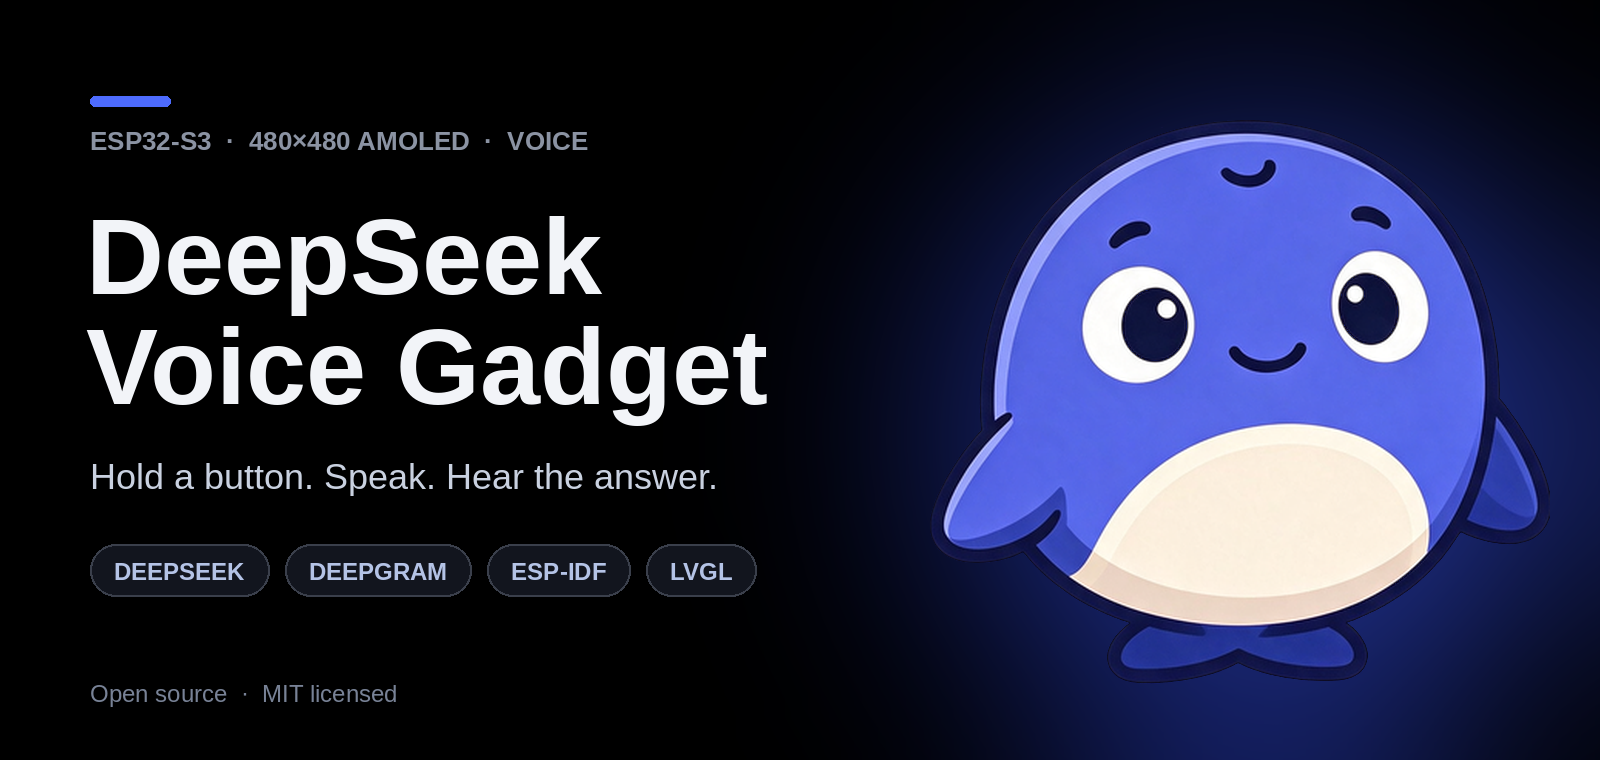
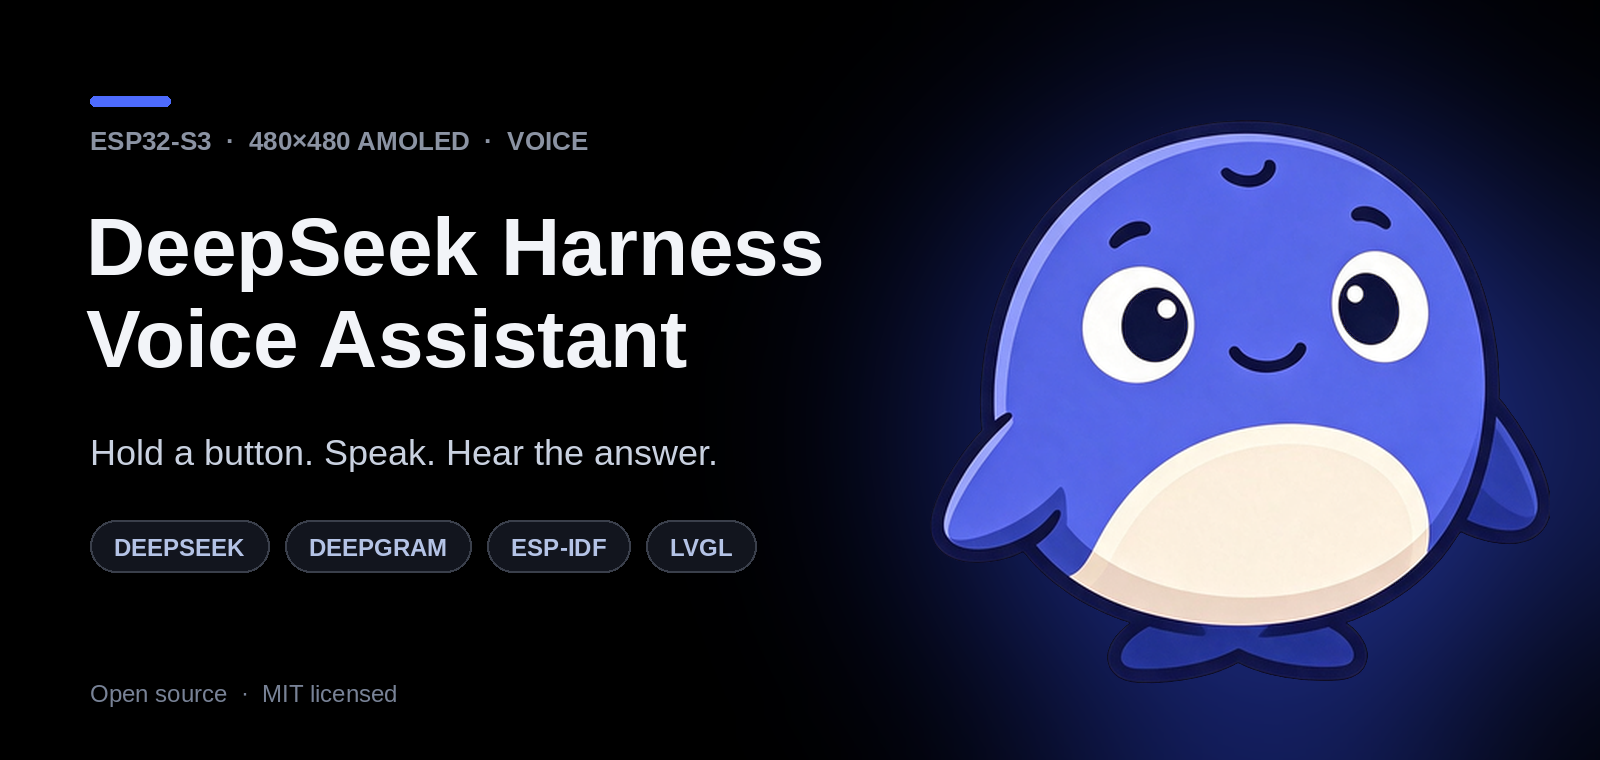
Rename to DeepSeek Harness Voice Assistant
Update the README title, hero banner, clone URL, and file header
comments. Remove em dashes from the description.

Changed region(s): [[0.0312, 0.2724, 0.5312, 0.7868]]

diff --git a/firmware/voice/main/main.c b/firmware/voice/main/main.c
@@ -1,4 +1,4 @@
-/* Voice Gadget — a purpose-built DeepSeek voice assistant for the
+/* DeepSeek Harness Voice Assistant: a purpose-built voice assistant for the
  * Waveshare ESP32-S3-Touch-AMOLED-2.16.
  *
  * One loop, no agent framework:

diff --git a/README.md b/README.md
@@ -1,12 +1,12 @@
-# DeepSeek Voice Gadget
+# DeepSeek Harness Voice Assistant
 
-![DeepSeek Voice Gadget](assets/hero.png)
+![DeepSeek Harness Voice Assistant](assets/hero.png)
 
 A small, purpose-built voice assistant for the **Waveshare ESP32-S3-Touch-AMOLED-2.16**
 (ESP32-S3R8, 16 MB flash, 8 MB PSRAM).
 
 Hold the left button, speak, release. The gadget records, transcribes, asks
-DeepSeek (or your own local harness), and speaks the answer out loud — with an
+DeepSeek (or your own local harness), and speaks the answer out loud, with an
 animated mascot that reacts to each state.
 
 No agent framework on the MCU, no Lua runtime, no skill system. One firmware
@@ -16,7 +16,7 @@ loop and one small host relay.
 
 ## Features
 
-- **Push-to-talk** — recording starts on press, stops 0.4 s after release.
+- **Push-to-talk**: recording starts on press, stops 0.4 s after release.
 - **Deepgram** speech-to-text and text-to-speech, with mic gain handled host-side.
 - **DeepSeek** answers, directly or through a local `dsh` harness.
 - **Animated mascot** with four poses (idle, listening, thinking, speaking).
@@ -92,15 +92,15 @@ endpoint for speech and chat.
 ### 2. Clone and configure
 
 ```sh
-git clone https://github.com/HMBS/deepseek-voice-gadget.git
-cd deepseek-voice-gadget
+git clone https://github.com/HMBS/deepseek-harness-voice-assistant.git
+cd deepseek-harness-voice-assistant
 
 cp firmware/voice/main/secrets.example.h firmware/voice/main/secrets.h
 $EDITOR firmware/voice/main/secrets.h
 ```
 
 Fill in Wi-Fi (2.4 GHz), the relay URL (your computer's LAN IP), and keys.
-`secrets.h` is gitignored — never commit it.
+`secrets.h` is gitignored, so never commit it.
 
 ### 3. Run the relay
 
@@ -217,7 +217,7 @@ These cost real debugging time; they are worth knowing if you fork this:
   `read` manually.
 - **TLS needs PSRAM.** Internal RAM is too tight for mbedTLS working buffers, so
   `CONFIG_MBEDTLS_EXTERNAL_MEM_ALLOC=y`; the DeepSeek call runs on a 16 KB stack.
-- **Never apply gain to a WAV file as a whole** — it corrupts the RIFF header and
+- **Never apply gain to a WAV file as a whole**: it corrupts the RIFF header and
   Deepgram rejects it as "corrupt or unsupported data". Gain the PCM, rebuild the
   header.
 - **Watch the I2S DMA.** Streaming TTS from Deepgram arrives slower than
@@ -242,4 +242,4 @@ These cost real debugging time; they are worth knowing if you fork this:
 
 ## License
 
-MIT — see [LICENSE](LICENSE).
+MIT, see [LICENSE](LICENSE).
